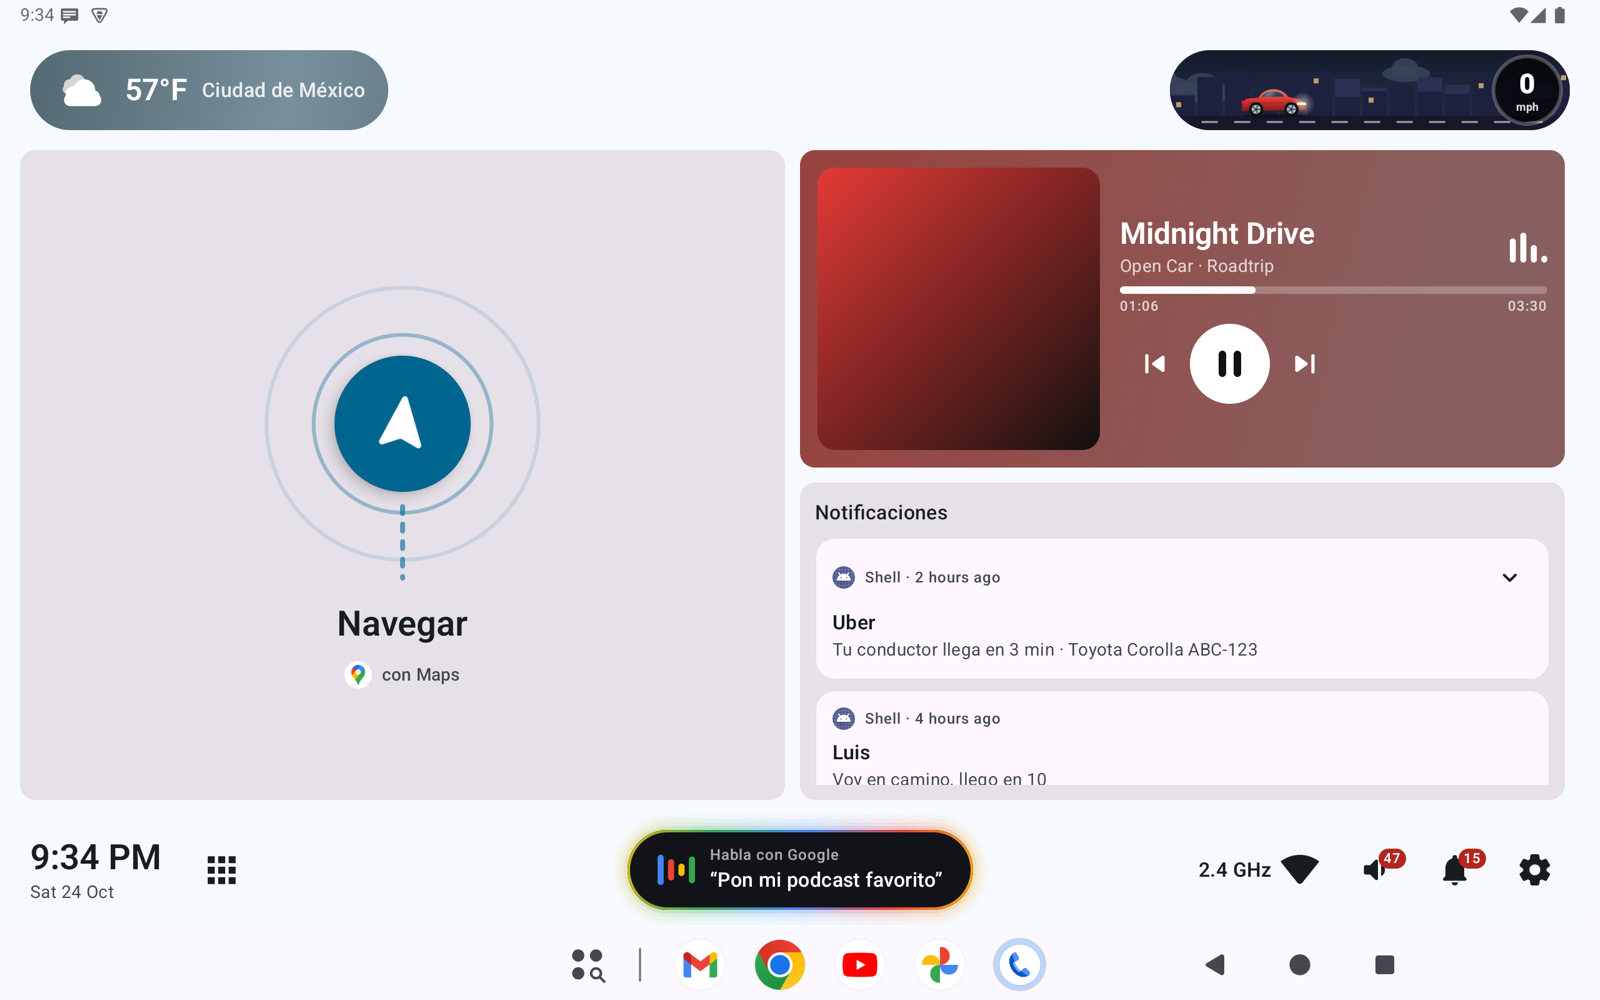
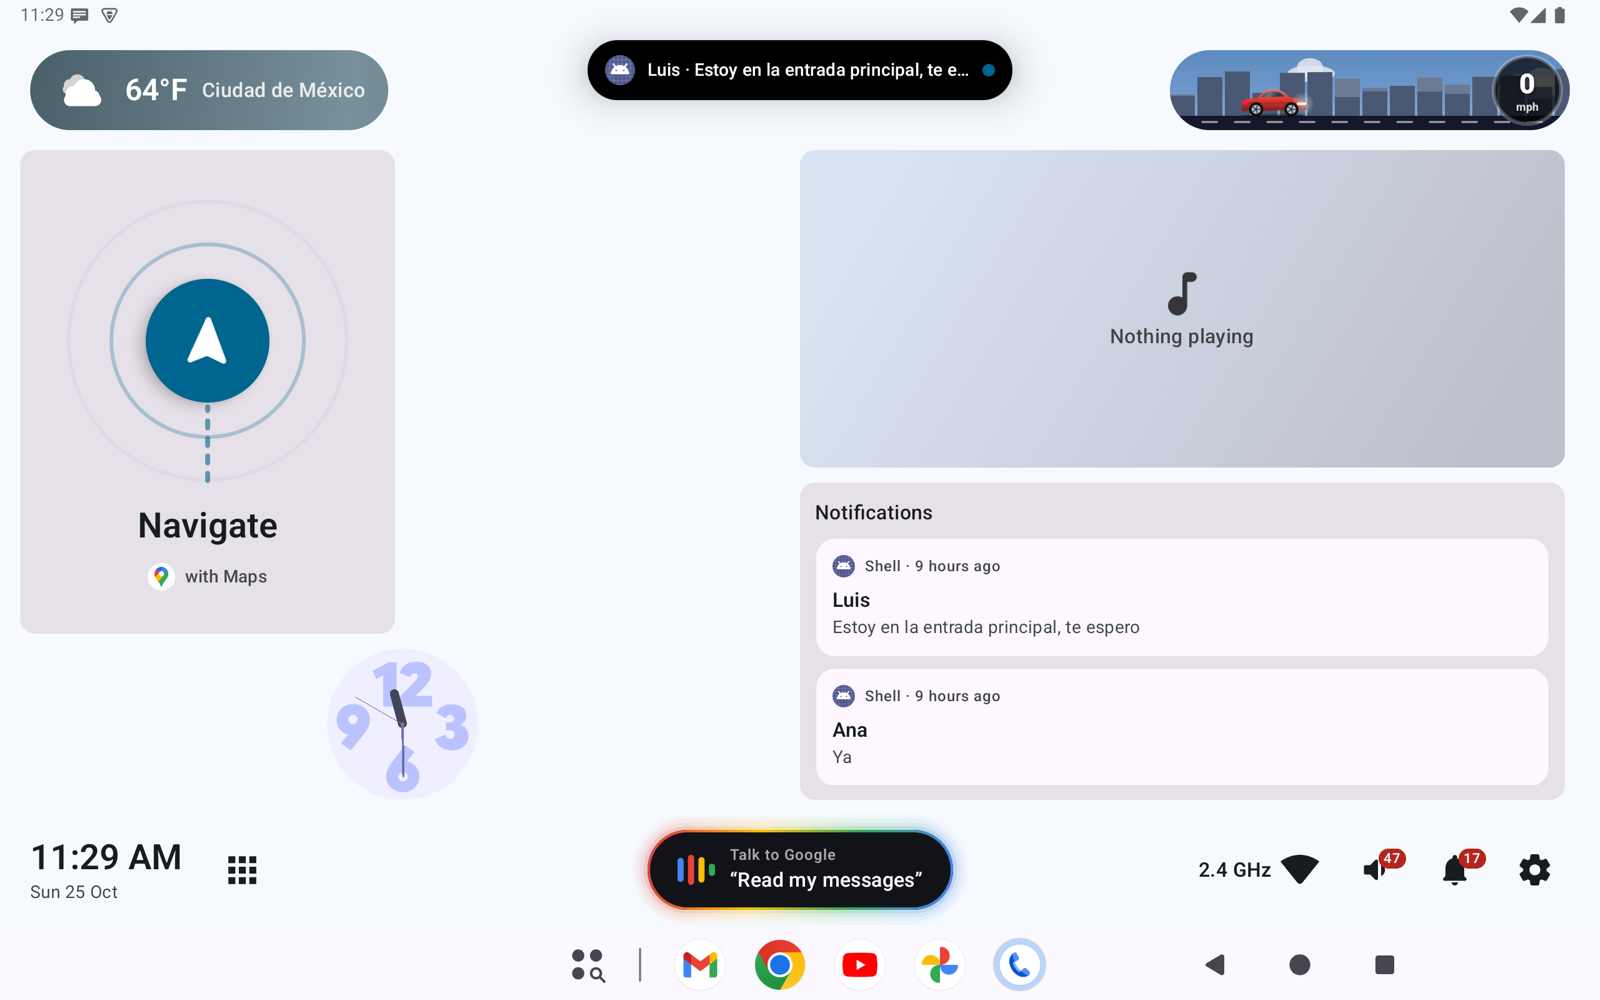
docs(readme): state the mission and show the new features
Add the project mission (democratizing car infotainment: the hardware in
head units can already run what carmakers lock or sell as subscriptions),
the app icon and a screenshot gallery to the English, Spanish and Chinese
READMEs.

diff --git a/README.es.md b/README.es.md
@@ -1,6 +1,18 @@
+<p align="center"><img src="docs/images/icon.svg" width="120" alt="Ícono de Open Car Project"></p>
+
 # Open Car Project
 
 [English](README.md) · **Español** · [简体中文](README.zh-CN.md)
+
+> **Abre el auto que ya tienes.** Las unidades principales de hoy tienen hardware lo
+> suficientemente potente para funciones que los fabricantes bloquean o cobran como
+> suscripción. Open Car Project existe para democratizar el sistema de entretenimiento del
+> auto: software abierto, construido en abierto, para que cada conductor decida qué puede hacer
+> su propia pantalla.
+>
+> Creemos que debería ser un derecho elegir cómo se ve tu auto y modernizarlo a tu gusto sin
+> tener que comprar uno nuevo, porque no todos tenemos esa capacidad económica. Las horas en el
+> tráfico se viven mejor en un lugar que se siente tuyo, porque tú mismo lo construiste.
 
 Un **launcher de Android de código abierto para unidades principales de auto**. Convierte la
 pantalla de la unidad principal en un tablero personalizable: navegación, música,
@@ -12,6 +24,12 @@ Construido con **Kotlin + Jetpack Compose (Material 3)**, APIs nativas de Androi
 de Clean Architecture.
 
 ![Pantalla de inicio](docs/screenshots/home.png)
+
+<p align="center">
+  <img src="docs/screenshots/motion-glow-turn.png" width="32%" alt="Brillo de movimiento en una vuelta a la izquierda">
+  <img src="docs/screenshots/notification-bubble.png" width="32%" alt="Burbuja de notificaciones">
+  <img src="docs/screenshots/settings.png" width="32%" alt="Configuración: idioma y zoom">
+</p>
 
 ## Funciones
 

diff --git a/README.md b/README.md
@@ -1,6 +1,17 @@
+<p align="center"><img src="docs/images/icon.svg" width="120" alt="Open Car Project icon"></p>
+
 # Open Car Project
 
 **English** · [Español](README.es.md) · [简体中文](README.zh-CN.md)
+
+> **Open the car you already own.** Today's head units carry hardware powerful enough to run
+> features that carmakers lock away or sell as subscriptions. Open Car Project exists to
+> democratize the car's infotainment system: open software, built in the open, so drivers decide
+> what their own screen can do.
+>
+> We believe it should be a right to choose how your car looks and to modernize it your way,
+> without having to buy a new one — not everyone can afford that. Hours stuck in traffic are
+> better spent in a place that feels like yours, because you built it yourself.
 
 An open-source **Android launcher for car head units**. It turns the head-unit screen into a
 customizable dashboard: navigation, music, notifications, weather and a speed scene live on a
@@ -10,6 +21,12 @@ Built with **Kotlin + Jetpack Compose (Material 3)**, native Android APIs (`AppW
 `MediaSession`, `NotificationListenerService`, `DataStore`) and a Clean Architecture layout.
 
 ![Home screen](docs/screenshots/home.png)
+
+<p align="center">
+  <img src="docs/screenshots/motion-glow-turn.png" width="32%" alt="Motion glow in a left turn">
+  <img src="docs/screenshots/notification-bubble.png" width="32%" alt="Notification bubble">
+  <img src="docs/screenshots/settings.png" width="32%" alt="Settings: language and zoom">
+</p>
 
 ## Features
 

diff --git a/README.zh-CN.md b/README.zh-CN.md
@@ -1,6 +1,12 @@
+<p align="center"><img src="docs/images/icon.svg" width="120" alt="Open Car Project 图标"></p>
+
 # Open Car Project
 
 [English](README.md) · [Español](README.es.md) · **简体中文**
+
+> **解锁你已经拥有的汽车。** 如今的车机硬件已经足够强大，足以运行那些被汽车厂商锁定或按订阅收费的功能。Open Car Project 的目标是让车载信息娱乐系统走向开放与普及：开放的软件、公开的开发，让每位车主自己决定屏幕能做什么。
+>
+> 我们相信，选择爱车的样子、按自己的心意让它焕然一新，而不必为此购买新车，应当是每个人的权利——并不是每个人都有这样的经济能力。堵在路上的时光，在一个由自己亲手打造、让人自在的空间里度过，会好得多。
 
 一款开源的**车机 Android 启动器**。它把车机屏幕变成可自定义的仪表盘：导航、音乐、通知、天气和速度场景都放在可拖放的网格上，并配有专为驾驶时使用而设计的大尺寸触控目标。
 
@@ -8,6 +14,12 @@
 `MediaSession`、`NotificationListenerService`、`DataStore`）以及 Clean Architecture 分层构建。
 
 ![主屏幕](docs/screenshots/home.png)
+
+<p align="center">
+  <img src="docs/screenshots/motion-glow-turn.png" width="32%" alt="左转时的运动光效">
+  <img src="docs/screenshots/notification-bubble.png" width="32%" alt="通知气泡">
+  <img src="docs/screenshots/settings.png" width="32%" alt="设置：语言与缩放">
+</p>
 
 ## 功能
 
